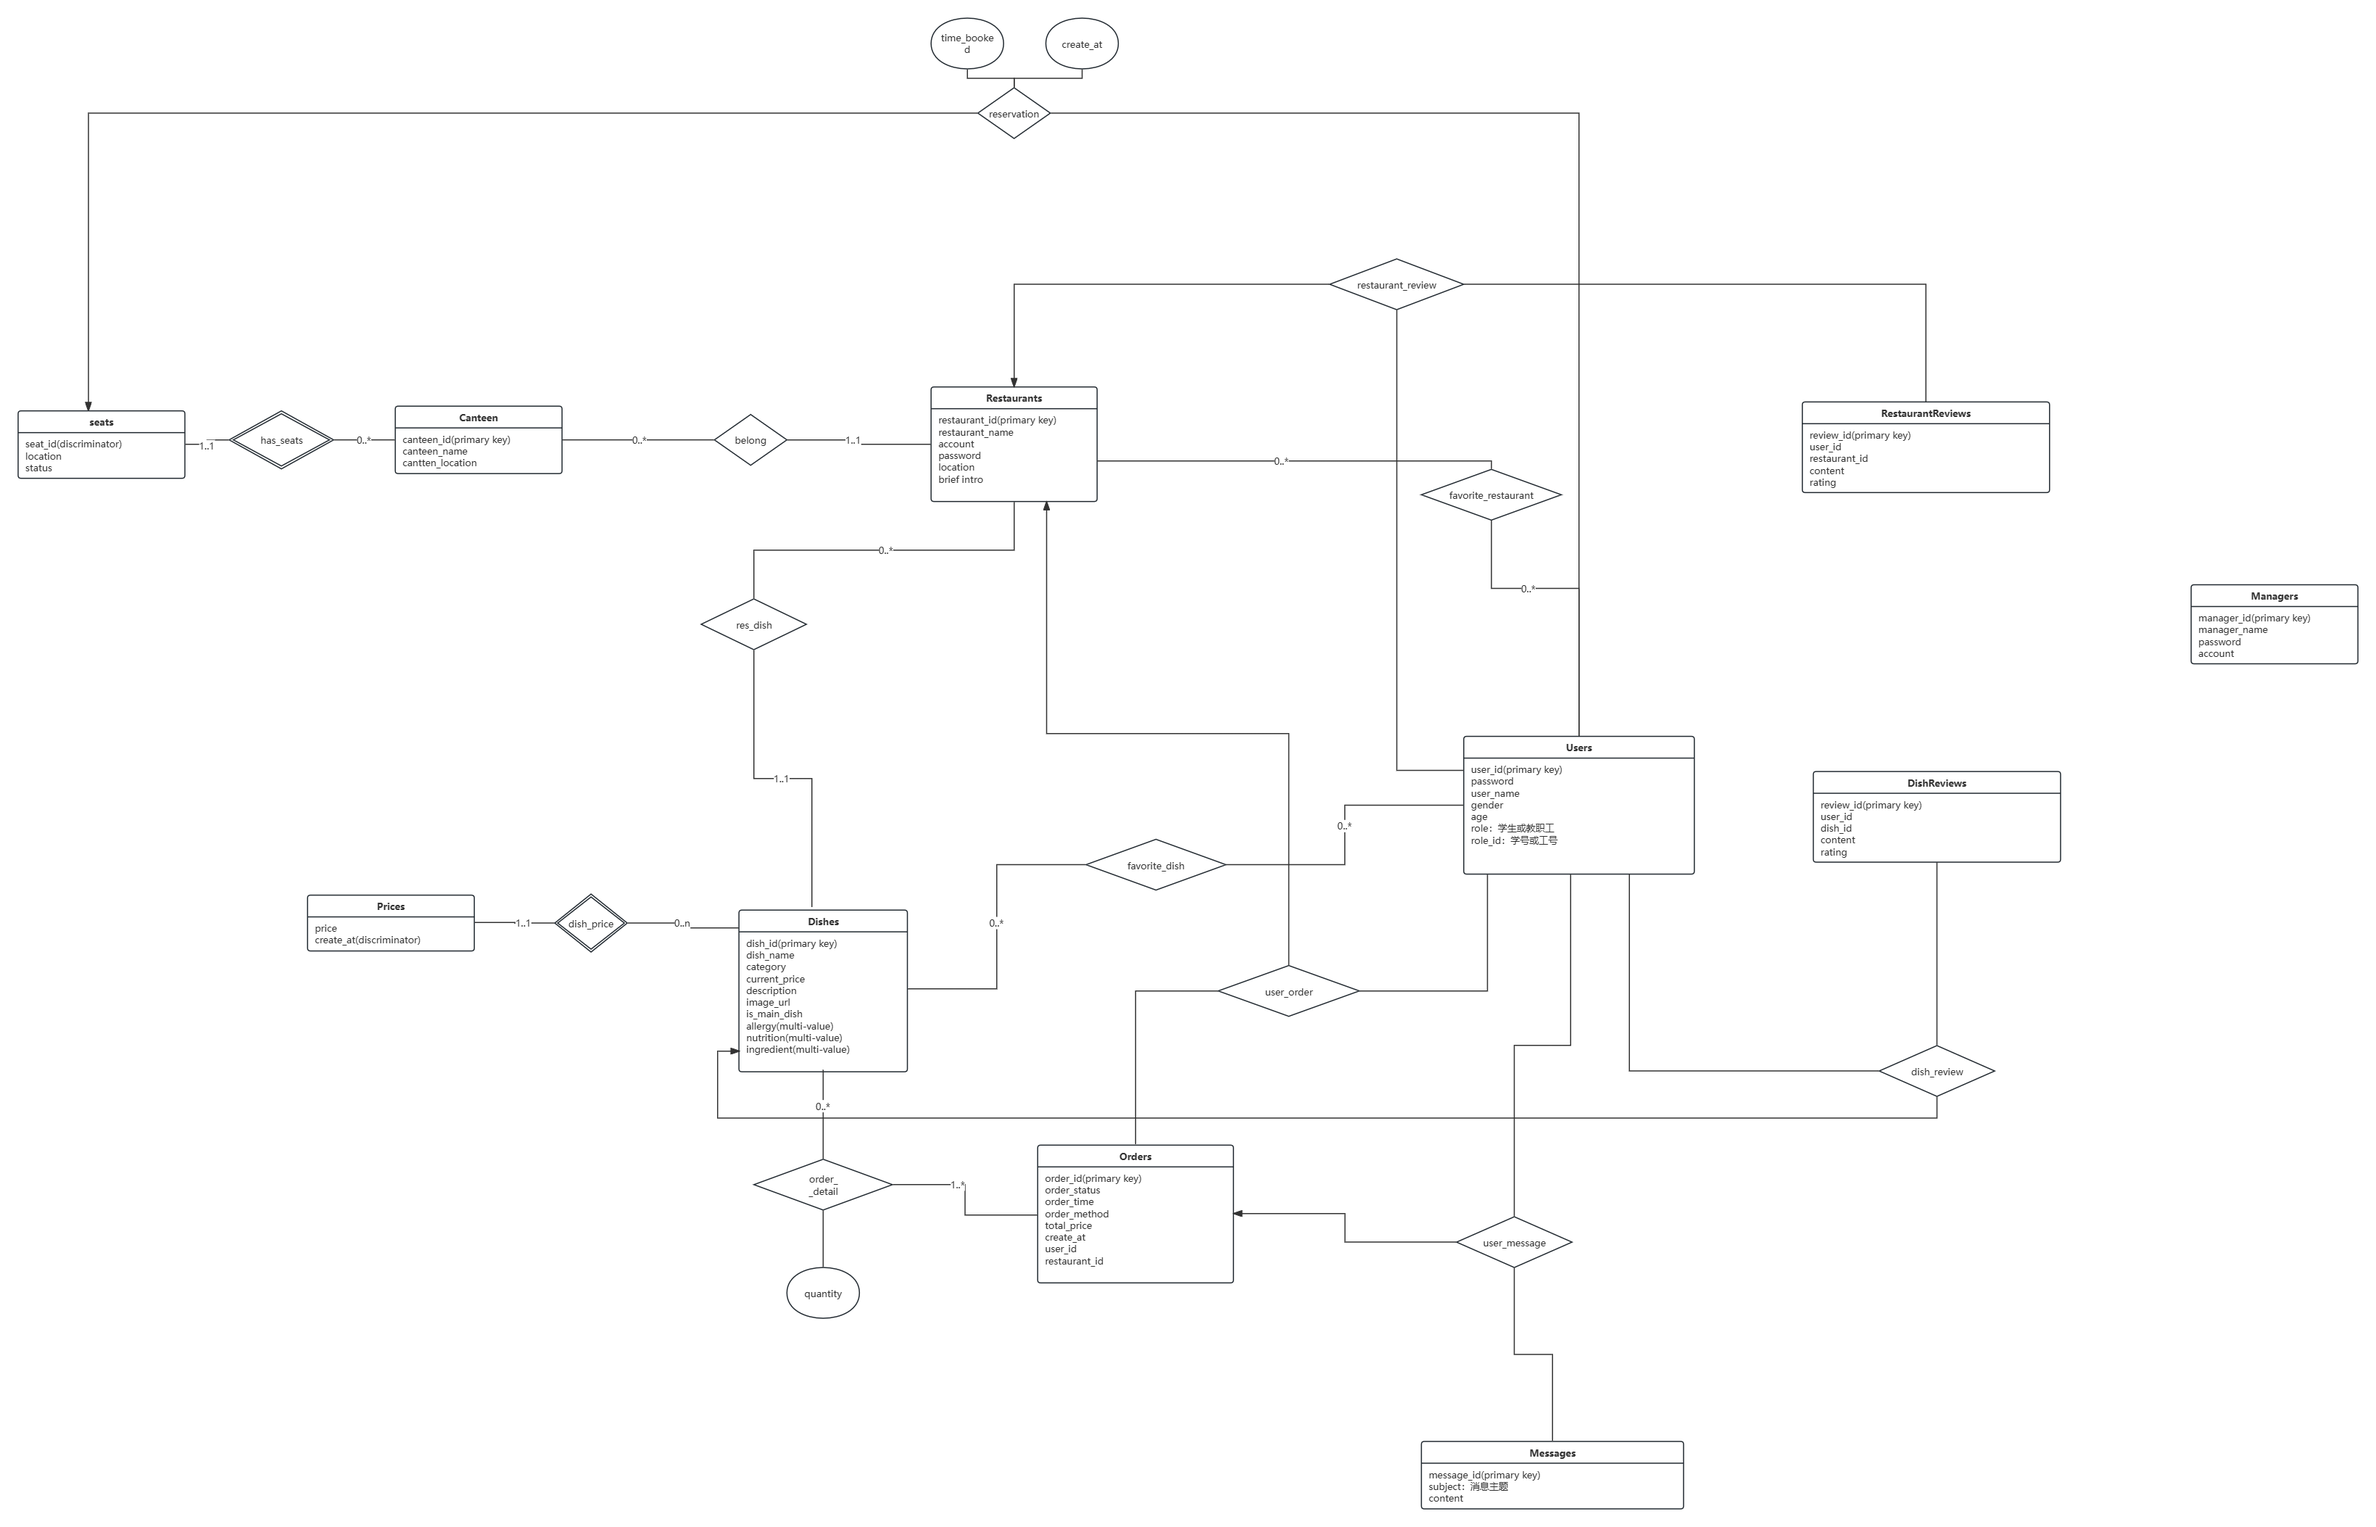
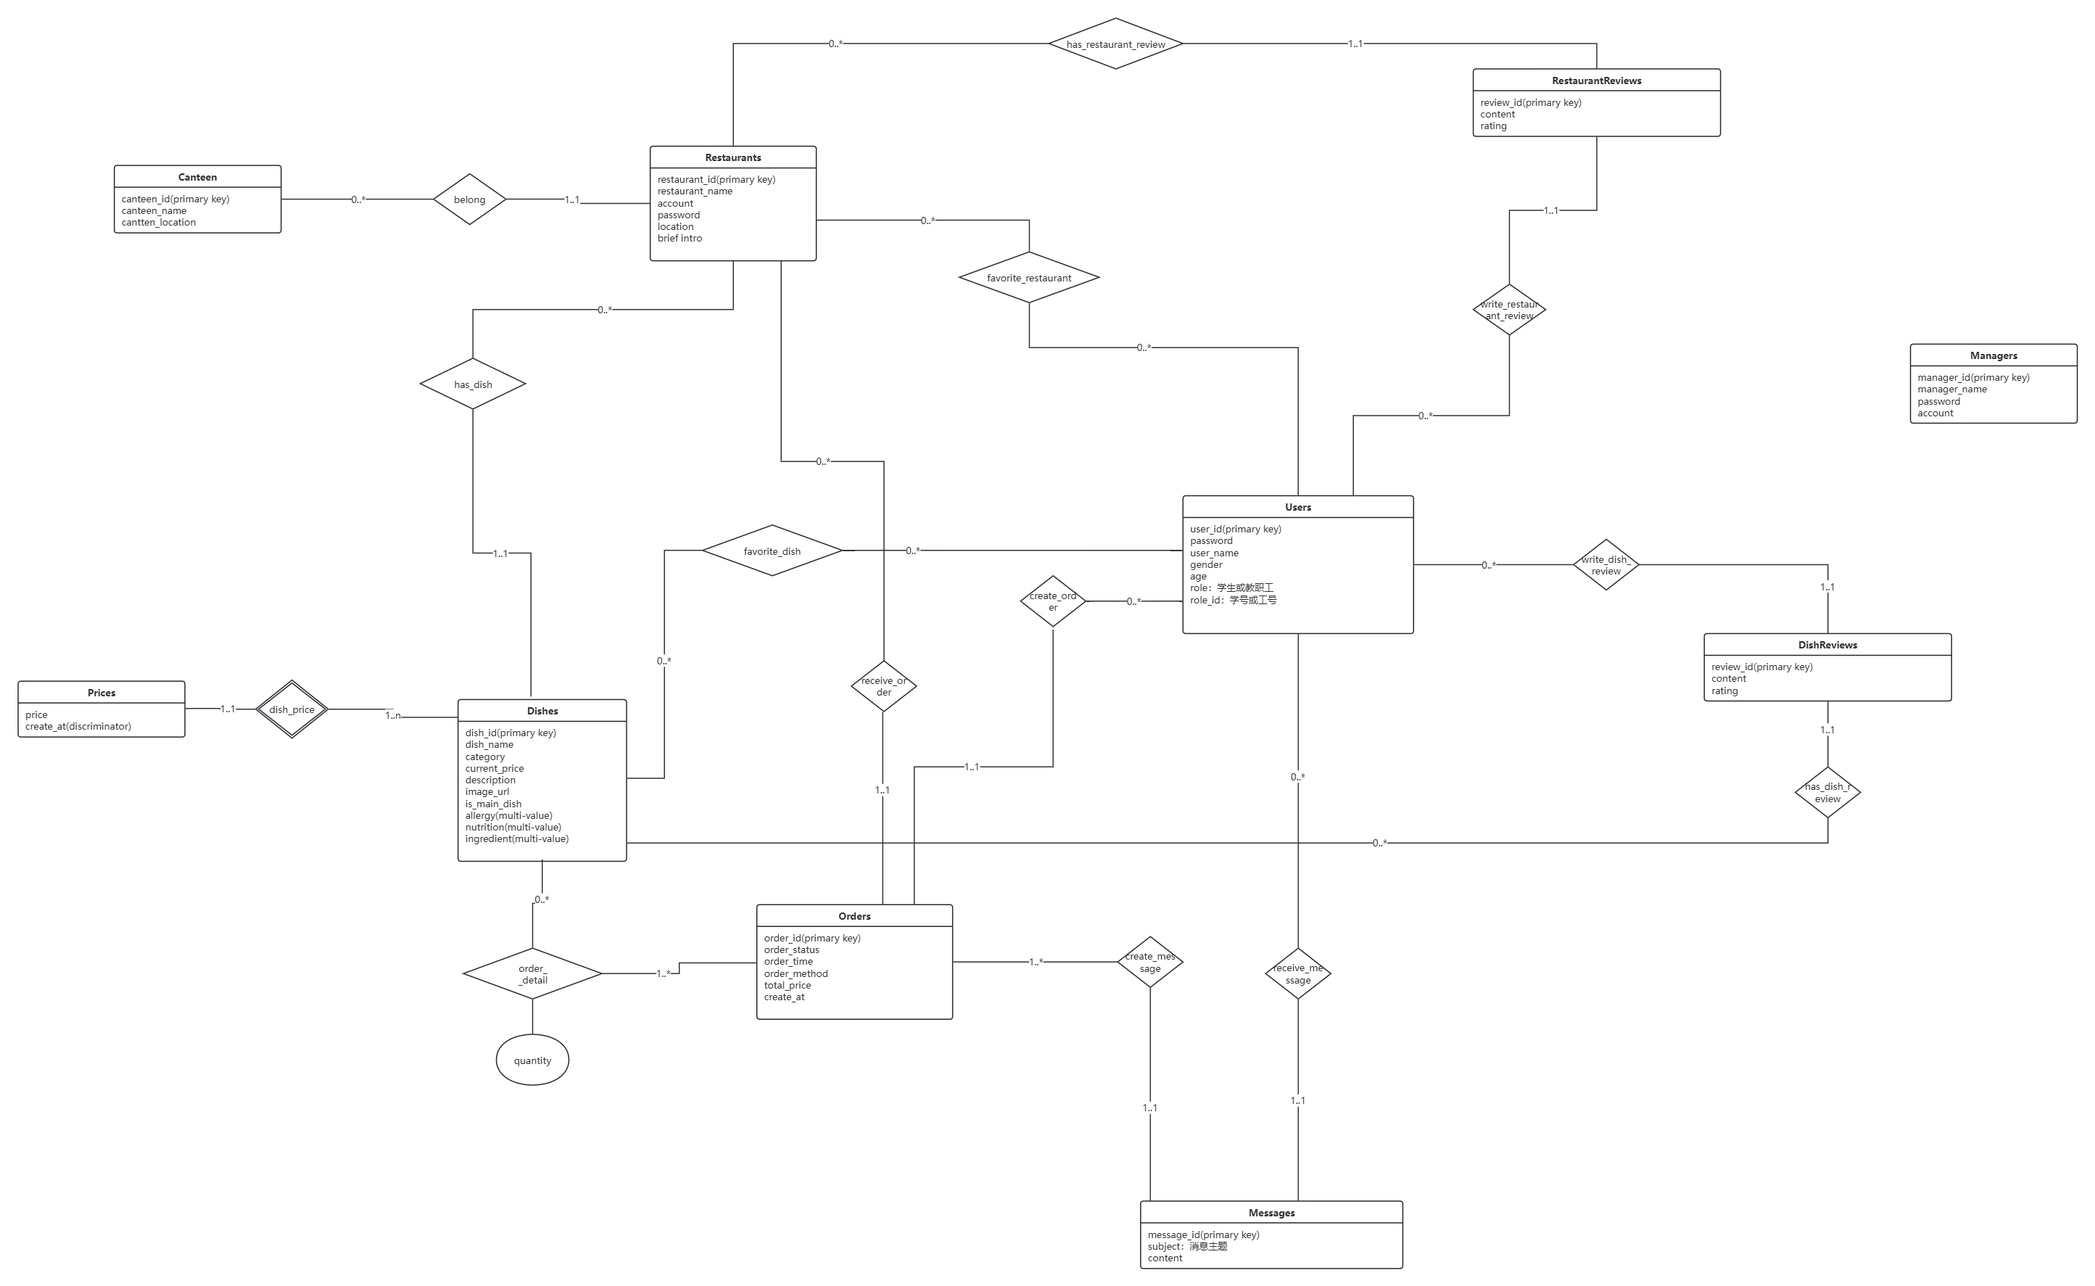
modify：根据明确后的需求提交了ER图与表结构schema modify：更改了TODO.md

diff --git a/TODO.md b/TODO.md
@@ -11,10 +11,10 @@
     - ~~用户可以使用搜索功能查找感兴趣的商户；~~
     - ~~搜索结果将显示一系列商户的简略信息，包括商户名称、主打菜品等；~~
         ~~+ 将地址字段添加了食堂信息~~
-    - 用户可以查看商户更多详细信息。
+    - ~~用户可以查看商户更多详细信息。~~
 
 3. 商户详细信息查看：
-    - 用户可以查询一个商户的所有信息，包括菜单、菜品概要等；
+    - ~~用户可以查询一个商户的所有信息，包括菜单、菜品概要等；~~
     - ~~用户可以查看商户的评价和评分。~~
         + 后续考虑能否将商户Id换一种方式展示，给用户看id感觉不太好
 
